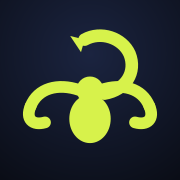
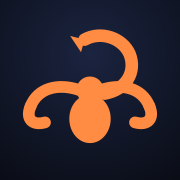
Restore original Scorpio branding
Brings back the script wordmark, splash artwork, icons and email wordmark. The redesign keeps the new interface palette around them.

Changed region(s): [[0.1111, 0.1389, 0.8889, 0.8056]]

diff --git a/client/src/index.css b/client/src/index.css
@@ -132,12 +132,19 @@ main{width:100%;flex:1 0 auto;}
 main:has(> .center-page){display:flex;flex-direction:column;}
 .splash{
   position:fixed;inset:0;z-index:1000;display:grid;place-items:center;
-  background:var(--chrome);color:#fff;opacity:1;transition:opacity .22s ease;
+  background:#FAF1E9;color:#3D332D;opacity:1;transition:opacity .22s ease;
 }
 .splash--leaving{opacity:0;pointer-events:none;}
 .splash__content{display:grid;justify-items:center;gap:14px;animation:fade-in-up .35s cubic-bezier(.22,.7,.3,1) both;}
-.splash__mark{display:block;width:72px;height:72px;border-radius:18px;}
-.splash__tagline{margin:0;color:rgba(255,255,255,.72);font-size:.9rem;font-weight:500;}
+.splash__mark{
+  display:block;width:clamp(240px,42vh,340px);height:auto;
+  /* Fades the photo's edges so no box shows against the matching background. */
+  -webkit-mask-image:linear-gradient(to right,transparent,#000 10%,#000 90%,transparent),linear-gradient(to bottom,transparent,#000 10%,#000 90%,transparent);
+  -webkit-mask-composite:source-in;
+  mask-image:linear-gradient(to right,transparent,#000 10%,#000 90%,transparent),linear-gradient(to bottom,transparent,#000 10%,#000 90%,transparent);
+  mask-composite:intersect;
+}
+.splash__tagline{margin:0;color:#3D332D;font-size:.95rem;font-weight:600;}
 .center-page{flex:1;min-height:56vh;display:flex;flex-direction:column;align-items:center;justify-content:center;text-align:center;}
 h1,h2,h3{font-family:'Geist Variable',system-ui,sans-serif;font-weight:650;margin:0;letter-spacing:-0.025em;}
 p{margin:0;}
@@ -951,8 +958,9 @@ img{max-width:100%;display:block;}
 .nav__verify-banner a{color:var(--accent);text-decoration:underline;text-underline-offset:2px;flex-shrink:0;}
 .nav__verify-banner svg{flex-shrink:0;}
 .nav__brand{display:flex;align-items:center;gap:9px;flex-shrink:0;justify-self:start;}
-.nav__mark{display:block;width:28px;height:28px;border-radius:8px;}
-.nav__name{font-weight:650;font-size:1.12rem;line-height:1;letter-spacing:-.03em;color:#fff;}
+/* The wordmark is the brand: same script and orange as the logo artwork, and
+   deliberately separate from the interface palette. */
+.nav__name{font-family:'Alex Brush',cursive;font-weight:400;font-size:2rem;line-height:1;color:#FF8C42;text-shadow:0 0 16px rgba(255,140,66,.5);}
 
 /* Icon-over-label nav row, Facebook-style on desktop, icon-only on mobile. */
 .nav__icons{display:flex;align-items:stretch;gap:2px;justify-self:end;}
@@ -994,6 +1002,7 @@ img{max-width:100%;display:block;}
    keeps the logo and search. */
 @media (max-width:780px){
   .nav__inner{display:flex;align-items:center;gap:12px;padding:8px 16px;}
+  .nav__name{font-size:1.6rem;}
   .nav__search{flex:1;max-width:none;}
   .nav__icons{
     position:fixed;left:0;right:0;bottom:0;z-index:55;gap:0;justify-content:space-around;justify-self:stretch;
@@ -2419,7 +2428,6 @@ img{max-width:100%;display:block;}
   .stat-grid:has(> :nth-child(3):last-child){grid-template-columns:repeat(3,minmax(0,1fr));gap:8px;}
   .stat-grid:has(> :nth-child(3):last-child) .stat-tile{flex-direction:column;align-items:flex-start;gap:6px;padding:10px 12px;}
 }
-.auth-shell__logo{display:block;width:34px;height:34px;border-radius:9px;}
 @media (max-width:960px){
   /* The cover is right above, so the buy button can move up a row. */
   .buy-panel .order-summary__cover{display:none;}

diff --git a/client/src/components/SplashScreen.jsx b/client/src/components/SplashScreen.jsx
@@ -1,4 +1,5 @@
 import { useEffect, useState } from 'react';
+import scorpioArtwork from '../../../images/WhatsApp Image 2026-10-07 at 08.57.14.jpeg';
 
 const SEEN_KEY = 'scorpio_splash_seen';
 
@@ -10,8 +11,8 @@ export default function SplashScreen() {
   useEffect(() => {
     if (phase !== 'showing') return undefined;
     sessionStorage.setItem(SEEN_KEY, '1');
-    const toFade = setTimeout(() => setPhase('leaving'), 650);
-    const toDone = setTimeout(() => setPhase('done'), 880);
+    const toFade = setTimeout(() => setPhase('leaving'), 1200);
+    const toDone = setTimeout(() => setPhase('done'), 1430);
     return () => { clearTimeout(toFade); clearTimeout(toDone); };
   }, []);
 
@@ -20,7 +21,7 @@ export default function SplashScreen() {
   return (
     <div className={`splash${phase === 'leaving' ? ' splash--leaving' : ''}`} aria-hidden="true">
       <div className="splash__content">
-        <img className="splash__mark" src="/brand/mark.svg" alt="" />
+        <img className="splash__mark" src={scorpioArtwork} alt="" />
         <p className="splash__tagline">Your ideas, out in the world.</p>
       </div>
     </div>

diff --git a/admin/src/index.css b/admin/src/index.css
@@ -605,7 +605,7 @@ img{max-width:100%;display:block;}
 .nav__inner{display:grid;grid-template-columns:auto 1fr auto;align-items:center;padding:6px 20px;gap:16px;}
 .nav__brand{display:flex;align-items:center;gap:9px;flex-shrink:0;justify-self:start;}
 .nav__name{
-  font-weight:650;font-size:1.12rem;letter-spacing:-.03em;line-height:1;
+  font-family:'Alex Brush',cursive;font-weight:400;font-size:2rem;line-height:1;
   color:var(--accent);text-shadow:0 0 16px rgba(var(--accent-rgb),.5);
 }
 
@@ -825,7 +825,7 @@ img{max-width:100%;display:block;}
 .splash__scorpion.is-glowing{filter:drop-shadow(0 4px 14px rgba(11,16,32,.16));animation:splash-pulse 2.6s ease-in-out .9s infinite;}
 .splash__name{
   position:relative;z-index:1;
-  font-weight:650;font-size:2rem;letter-spacing:-.03em;line-height:1;color:var(--ink);
+  font-family:'Alex Brush',cursive;font-weight:400;font-size:3.2rem;line-height:1;color:#E86F1F;
   margin:0;
   opacity:0;transform:translateY(8px);transition:opacity .7s ease .9s, transform .7s ease .9s;
 }

diff --git a/src/lib/notify.js b/src/lib/notify.js
@@ -71,7 +71,7 @@ function renderHtml(subject, body) {
     <tr><td align="center">
       <table role="presentation" width="100%" style="max-width:480px;">
         <tr><td style="padding-bottom:20px;text-align:center;">
-          <span style="font-weight:700;font-size:24px;letter-spacing:-.5px;color:#0B1020;">Scorpio</span>
+          <span style="font-family:Georgia,serif;font-style:italic;font-size:32px;color:#FF8C42;">Scorpio</span>
         </td></tr>
         <tr><td style="background:#FFFFFF;border-radius:14px;padding:32px 28px;box-shadow:0 1px 2px rgba(19,25,33,.06);">
           <h1 style="margin:0 0 16px;color:#0F1111;font-size:20px;line-height:1.35;">${escapeHtml(subject)}</h1>

diff --git a/client/src/components/AuthShell.jsx b/client/src/components/AuthShell.jsx
@@ -7,9 +7,9 @@ export default function AuthShell({ children, wide = false, cardStyle }) {
     <div className="auth-page">
       <div className={`auth-shell${wide ? ' auth-shell--wide' : ''}`}>
         <div className="auth-shell__intro" aria-label="Scorpio">
-          <img className="auth-shell__logo" src="/brand/mark.svg" alt="" />
+          <span className="auth-shell__mark">S</span>
           <span className="auth-shell__brand">
-            <strong>Scorpio</strong>
+            <strong>SCORPIO</strong>
             <small>Make something worth finding.</small>
           </span>
         </div>

diff --git a/client/src/components/Nav.jsx b/client/src/components/Nav.jsx
@@ -109,7 +109,6 @@ export default function Nav() {
       )}
       <div className="wrap nav__inner">
         <Link to="/" className="nav__brand">
-          <img className="nav__mark" src="/brand/mark.svg" alt="" />
           <span className="nav__name">Scorpio</span>
         </Link>
 

diff --git a/admin/src/main.jsx b/admin/src/main.jsx
@@ -1,3 +1,4 @@
+import '@fontsource/alex-brush';
 import '@fontsource-variable/geist';
 import '@fontsource-variable/geist-mono';
 import React from 'react';

diff --git a/client/src/main.jsx b/client/src/main.jsx
@@ -1,3 +1,4 @@
+import '@fontsource/alex-brush';
 import '@fontsource-variable/geist';
 import '@fontsource-variable/geist-mono';
 import React from 'react';
